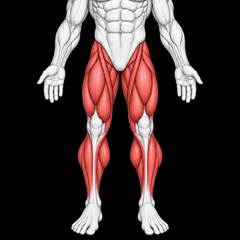
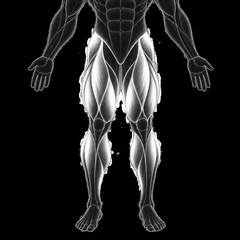
홈 "부위별 마지막 운동" 카드 - 가슴/어깨/하체/팔 이미지를 새 스타일로 교체 (#572)
사용자가 새로 만들어준 하이라이트 이미지(빨간 강조 대신 흰색 글로우
강조, 더 깔끔한 스타일)로 4개 부위 썸네일 교체. 어깨/팔은 원본 이미지에서
하이라이트 영역이 가로로 넓고 세로로 얕아서, 정사각형으로 크롭할 때
상하 여백이 과도하게 생기던 것을 재조정(패딩 배율 축소 + 크롭 중심을
주변 근육까지 살짝 포함하도록 조정)해서 실제 하이라이트가 잘 보이게 함.

등(back)은 사용자가 나중에 보내주기로 해서 기존 임시 이미지(하이라이트
없는 등판) 그대로 유지.

Claude-Session: https://claude.ai/code/session_01TNoGCWRQtXcfdnQwZ6HvCX

diff --git a/index.html b/index.html
@@ -10399,7 +10399,7 @@ const settingsHeaderName = document.getElementById("settingsHeaderName");
 const settingsHeaderSub = document.getElementById("settingsHeaderSub");
 
 /* ✅ 앱 버전 정의 — 의미 있는 수정/배포마다 올림(설정 화면에서 "최신 버전 받았는지" 확인용) */
-const APP_VERSION = "0.9.91";
+const APP_VERSION = "0.9.92";
 const appVersionDisplay = document.getElementById("appVersionDisplay");
 if (appVersionDisplay) {
   appVersionDisplay.textContent = APP_VERSION;
